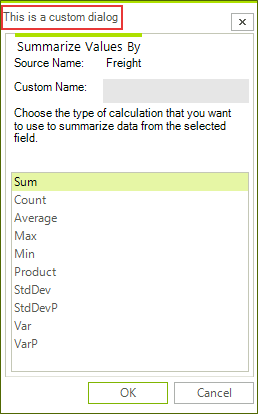
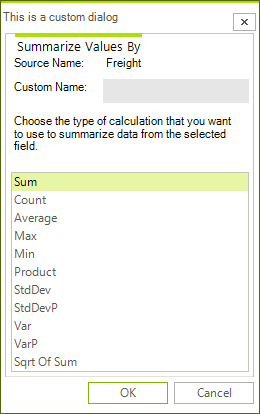
Updated pivot custom aggregation dialog article

diff --git a/pivotgrid/dialogs/custom-dialogs.md b/pivotgrid/dialogs/custom-dialogs.md
@@ -1,6 +1,6 @@
 ---
-title: Custome Dialogs
-page_title: Custome Dialogs | RadPivotGrid
+title: Custom Dialogs
+page_title: Custom Dialogs | RadPivotGrid
 description: To customize the dialogs in **RadPivotGrid**/**RadPivotFieldList**, you can either inherit from them to override/extend the base functionality or you can create an entirely custom dialogs by implementing the corresponding dialog interface.
 slug: winforms/pivotgrid/dialogs/custom-dialogs
 tags: customizing,the,dialogs
@@ -19,9 +19,12 @@ To customize the dialogs in **RadPivotGrid**/**RadPivotFieldList**, you can eith
 
 #### Custom AggregateOptionsDialog
 
-{{source=..\SamplesCS\PivotGrid\PivotGridDialogs.cs region=MyAggregateOptionsDialog}} 
-{{source=..\SamplesVB\PivotGrid\PivotGridDialogs.vb region=MyAggregateOptionsDialog}} 
+The functions list displayed in the dialog can be modified. It can also be extended with custom aggregate functions. The example below adds the sample *SqrtSumAggregateFunction* to the list with the default functions.
 
+>note The [Custom Aggregation]({%slug winforms/pivotgrid/custom-aggregation%}) article discusses in details the API for creating custom functions as well as it includes the source code of the custom function used below.
+
+{{source=..\SamplesCS\PivotGrid\PivotGridDialogs.cs region=MyAggregateOptionsDialog}} 
+{{source=..\SamplesVB\PivotGrid\PivotGridDialogs.vb region=MyAggregateOptionsDialog}}
 ````C#
 class MyAggregateOptionsDialog : AggregateOptionsDialog
 {
@@ -29,6 +32,12 @@ class MyAggregateOptionsDialog : AggregateOptionsDialog
     {
         base.LoadSettings(aggregateDescription);
         this.Text = "This is a custom dialog";
+    }
+    protected override IEnumerable<object> GetDefaultAggregateFunctions(AggregateDescriptionBase aggregateDescription)
+    {
+        IEnumerable<object> functions = base.GetDefaultAggregateFunctions(aggregateDescription);
+        IEnumerable<object> customFunctions = functions.Concat(new List<object> { new SqrtSumAggregateFunction() });
+        return customFunctions;
     }
 }
 
@@ -40,9 +49,16 @@ Class MyAggregateOptionsDialog
         MyBase.LoadSettings(aggregateDescription)
         Me.Text = "This is a custom dialog"
     End Sub
+    Protected Overrides Function GetDefaultAggregateFunctions(ByVal aggregateDescription As AggregateDescriptionBase) As IEnumerable(Of Object)
+        Dim functions As IEnumerable(Of Object) = MyBase.GetDefaultAggregateFunctions(aggregateDescription)
+        Dim customFunctions As IEnumerable(Of Object) = functions.Concat(New List(Of Object) From {New SqrtSumAggregateFunction()})
+        Return customFunctions
+    End Function
 End Class
 
-````
+```` 
+
+
 
 {{endregion}}
 
@@ -98,3 +114,4 @@ Me.radPivotFieldList1.DialogsFactory = New MyDialogsFactory()
 # See Also
 
 * [Dialogs Overview]({%slug winforms/pivotgrid/dialogs%})
+* [Custom Aggregation]({%slug winforms/pivotgrid/custom-aggregation%})

diff --git a/pivotgrid/custom-aggregation.md b/pivotgrid/custom-aggregation.md
@@ -210,6 +210,8 @@ End Class
 
 We can make use of our new function by assigning it to the __AggregateFunction__ property of a __PropertyAggregateDescription__ object before setting it to our pivot.
 
+>note The [Custom Dialogs]({%slug winforms/pivotgrid/dialogs/custom-dialogs%}) article demonstrates how the custom function can be added to the *Aggregate Options Dialog*.
+
 #### Using the Custom Aggregate Function
 
 {{source=..\SamplesCS\PivotGrid\PivotGridCustomAggregation.cs region=CustomFunctionUsage}} 
@@ -236,3 +238,4 @@ Me.RadPivotGrid1.DataProvider = dataProvider
 
 * [Calculated Fields]({%slug winforms/pivotgrid/calculated-fields%})
 * [Calculated Items]({%slug winforms/pivotgrid/calculated-items%})
+* [Custom Dialogs]({%slug winforms/pivotgrid/dialogs/custom-dialogs%})
